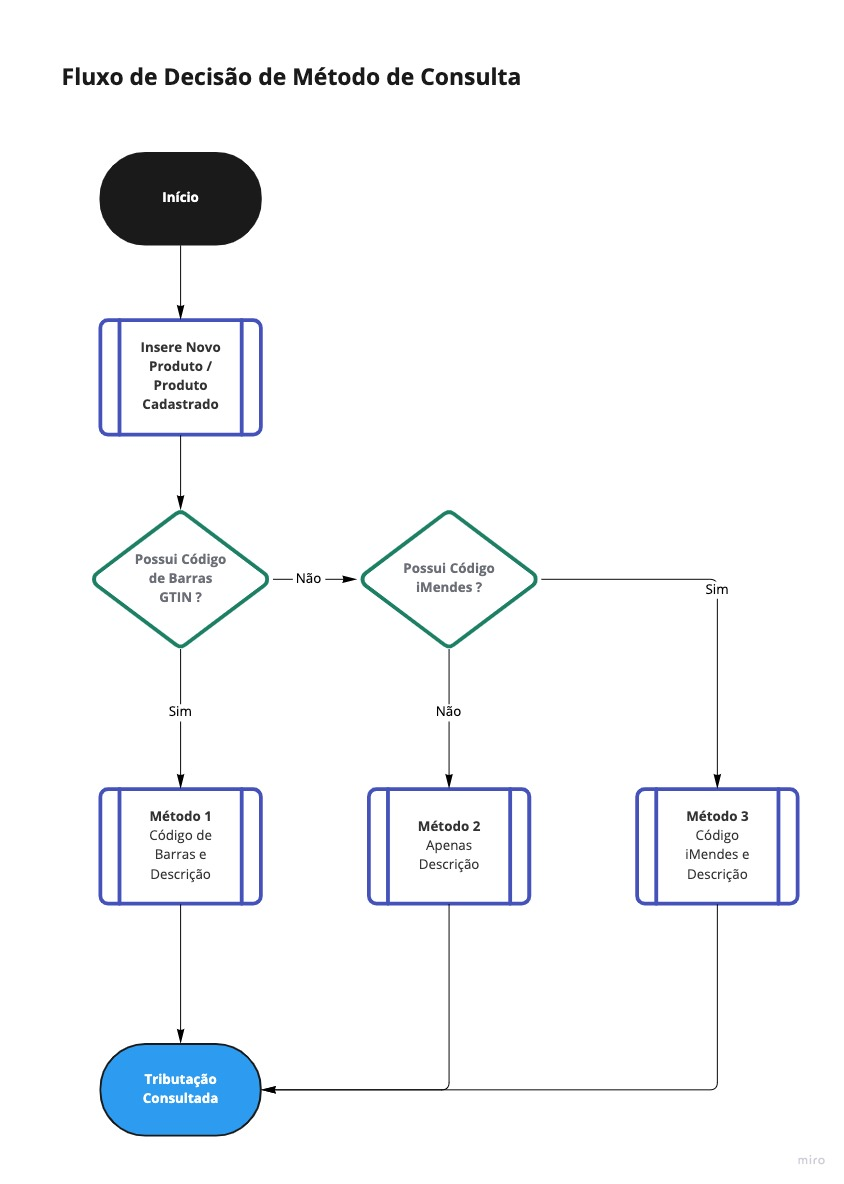
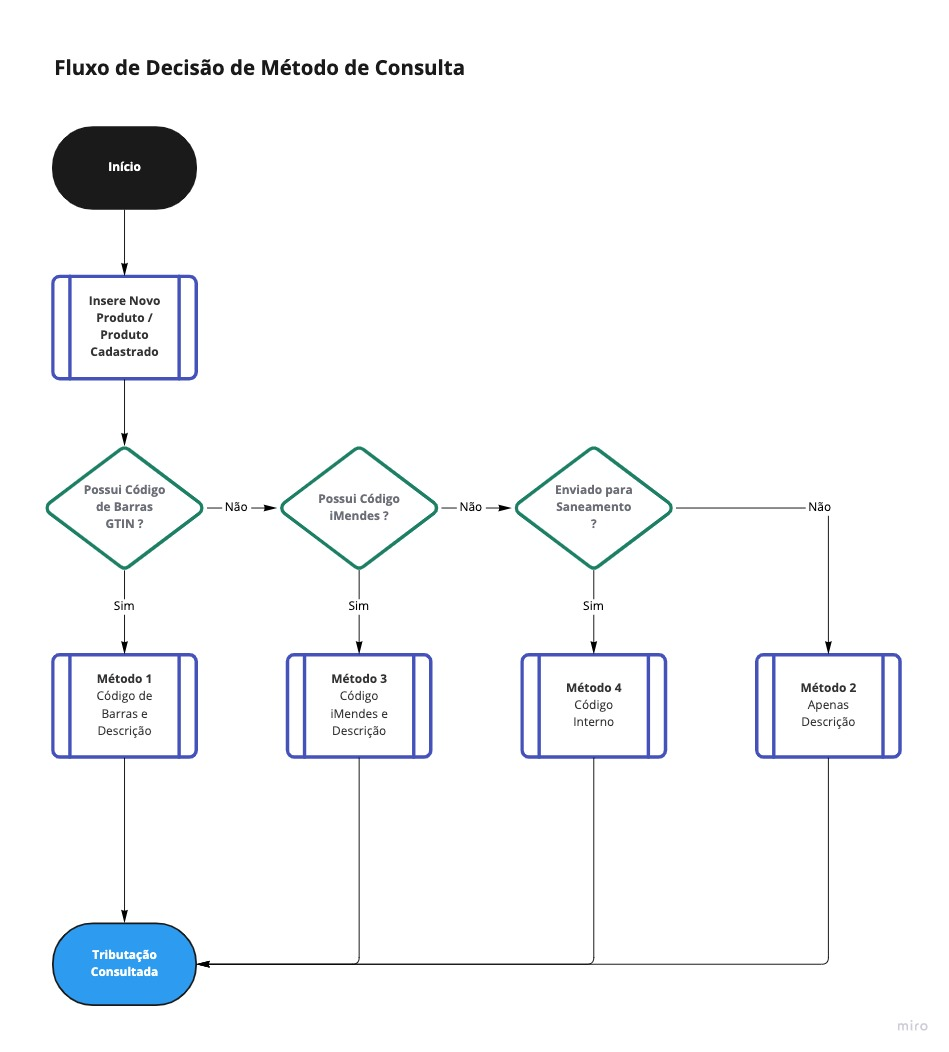
Add New Flow for decision method

diff --git a/Requirements.md b/Requirements.md
@@ -109,7 +109,7 @@ Tipo | Posicionamento | Nome/Texto | Descritivo | Validações
 :------|:------|:------|:------|:------
 **Campo**|**Grupo Dados do Produto**|Código iMendes| Campo para armazenar e exibir o Código iMendes quando ocorrer o vínculo efetuado pelo Usuário | Deve ser do Tipo Inteiro e Somente leitura.
 **Campo** | A Definir |Auditado por iMendes| Campo para armazenar e exibir a informação de que o Produto teve a tributação auditada/atualizada pela iMendes. Complementar esta informação com a Data e Hora da última atualização tributária | Somente leitura e visualmente destacado
-**Campo** | A Definir |Enviado para Sanemamento| Campo para armazenar e exibir a informação quando o Produto foi enviado para a iMendes classificar e tributar. Será utilizado para identificar que produtos estão pendentes de tributação na iMendes, e como *flag* para apontar que precisa receber atualização. Complementar esta informação com a Data e Hora do envio | Somente leitura e visualmente destacado
+**Campo** | A Definir |Enviado para Saneamento| Campo para armazenar e exibir a informação quando o Produto foi enviado para a iMendes classificar e tributar. Será utilizado para identificar que produtos estão pendentes de tributação na iMendes, e como *flag* para apontar que precisa receber atualização. Complementar esta informação com a Data e Hora do envio | Somente leitura e visualmente destacado
 **Caixa de Seleção** | A Definir | **Não tributar pelo iMendes** | Parâmetro para restringir a atualização de Tributos do Produto pelo iMendes. Por decisão do Usuário, alguns produtos podem ser tributados seguindo a sua própria interpretação. | Solicitar Acesso Restrito para ativar e desativar o parâmetro.
 
 #### Tipos de Consulta
@@ -120,7 +120,7 @@ Método | Tipo de Consulta | Descritivo | Validações | API a Consumir | Tags d
 **Método 1** | **Código de Barras EAN/GTIN e Descrição** | Consultar a Tributação do Produto utilizando o Código de Barras EAN/GTIN e a Descrição do Produto | Identificar se o Código é um EAN válido, considerando tamanho de 8, 12, 13 ou 14 dígitos. Se EAN válido, identificar se o Prefixo do Código de Barras inicia em 789 ou 790, e enviar origem igual a 0, caso contrário enviar origem igual a 8. Capturar o retorno dos dados.| **Saneamento** |```"codigo":"EAN", "codInterno":"N", "codIMendes":"", "descricao":"DESCRICAO"```
 **Método 2** |**Apenas Descrição** | Consultar a Tributação de um Produto utilizando a Descrição. Capturar a lista de Produtos semelhantes, e permitir vincular um Produto iMendes com o Produto corrente. | Permitir vincular apenas um Produto iMendes com um Produto cadastrado. Criar acesso restrito para esta operação. Identificar se o Produto está sem Código de Barras e não vinculado a um Código iMendes.|**Envia/Recebe Dados**| ```"nomeservico":"DESCPRODUTOS", "dados":"CNPJ\|DESCRICAO" ```
 **Método 3** | **Código iMendes e Descrição** | Consultar a Tributação do Produto utilizando o Código iMendes previamente vinculado. Capturar o retorno normalmente como ocorre no Método 1 | Identificar se o Produto possui um Código iMendes, se sim, utilizar esta informação para localizar a tributação. | **Saneamento** | ```"codIMendes":"CODIGOVINCULADO", "descricao":"DESCRICAO"```
-**Método 4** | **Código Interno** | Consultar a Tributação do Produto utilizando o Código Interno do Produto previamento classificado pela iMendes | ```"codInterno":"CODIGOINTERNO"```
+**Método 4** | **Código Interno** | Consultar a Tributação do Produto utilizando o Código Interno do Produto previamento classificado pela iMendes |Identificar se o possui o campo "Enviado para Saneamento" igual a "Sim" |**Saneamento**| ```"codInterno":"CODIGOINTERNO"```
 
 #### Fluxo de Decisão do Método de Consulta
 - ![Fluxo de Decisão do Método de Consulta](./Flow-Decision-Method.jpeg)
@@ -234,7 +234,9 @@ Item | Controle | Recurso | Descritivo | Grau de Importância
 3 | Permitir Consultar Tributos via Cadastro de Produtos | Chave de Acesso | Solicitar Chave de Acesso para Usuário realizar a Consulta Tributária através do Cadastro de Produtos | **Alto**
 3 | Permitir Gravar Atualização de Tributação no Cadastro de Produtos | Chave de Acesso | Solicitar Chave de Acesso para evitar que um Usuário não autorizado e com acesso ao Cadastro grave uma Tributação através do Cadastro de Produtos | **Alto**
 3 | Permitir Gravar Atualização **Parcial** de Tributação no Cadastro de Produtos | Chave de Acesso | Solicitar Chave de Acesso para evitar que um Usuário autorizado grave Campos Específicos de tributação (não todos) através do Cadastro de Produtos | **Alto**
-4 | Permitir Reverter, a um estado anterior, Dados Tributários alterados pela iMendes | Chave de Acesso
+4 | Permitir Reverter, a um estado anterior, Dados Tributários alterados pela iMendes | Chave de Acesso | Solicitar Chave de Acesso para restringir e registrar que o Usuário reverteu dados de tributação atuais para uma versão do histórico do Produto | **Alto**
+5 | Permitir vincular um Código iMendes a um Produto sem Código de Barras | Chave de Acesso | Solicitar Chave de Acesso para restringir e registrar que o usuário está vinculando um Produto Cadastrado com um Código iMendes através de uma Pesquisa de Produto por Descrição. Esta operação assegura ciência da operação pelo usuário | **Alto**
+
 
 ## Tabela de Validações do MVP
 
